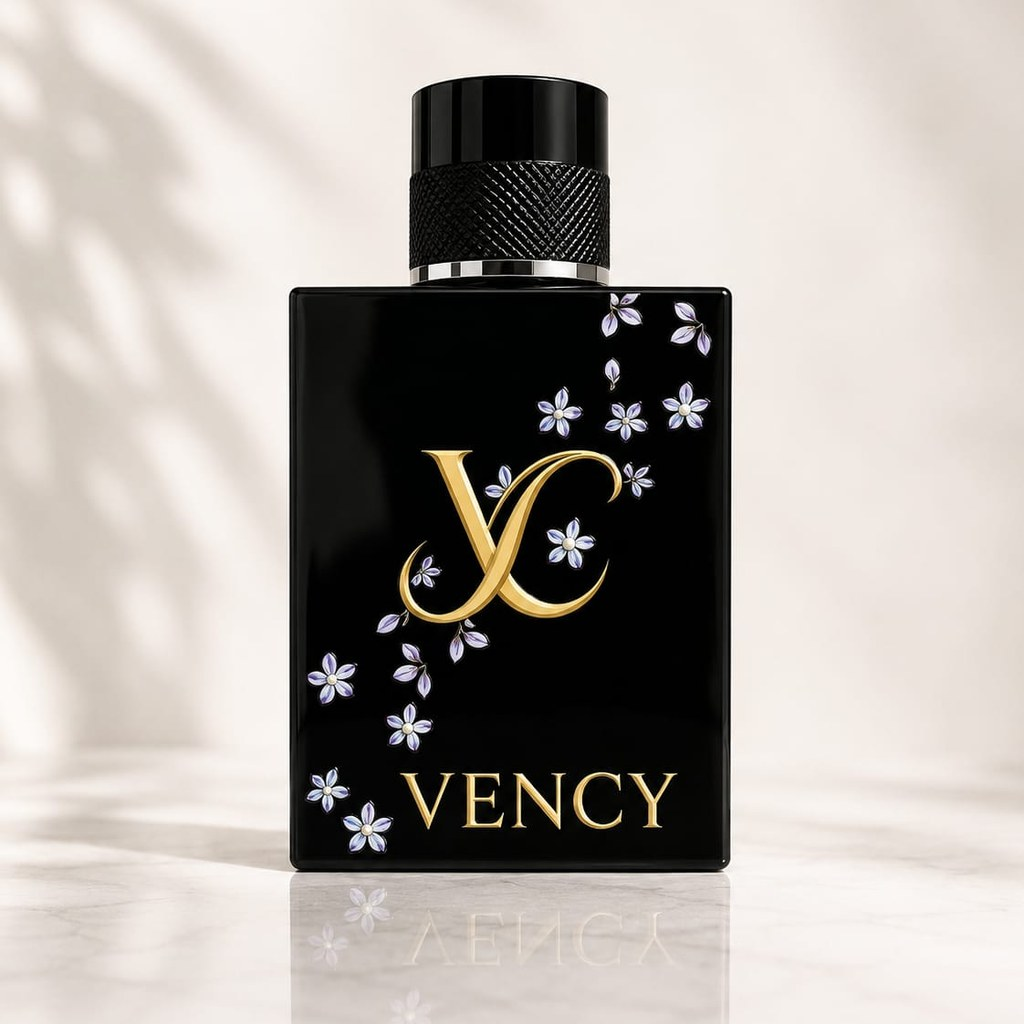
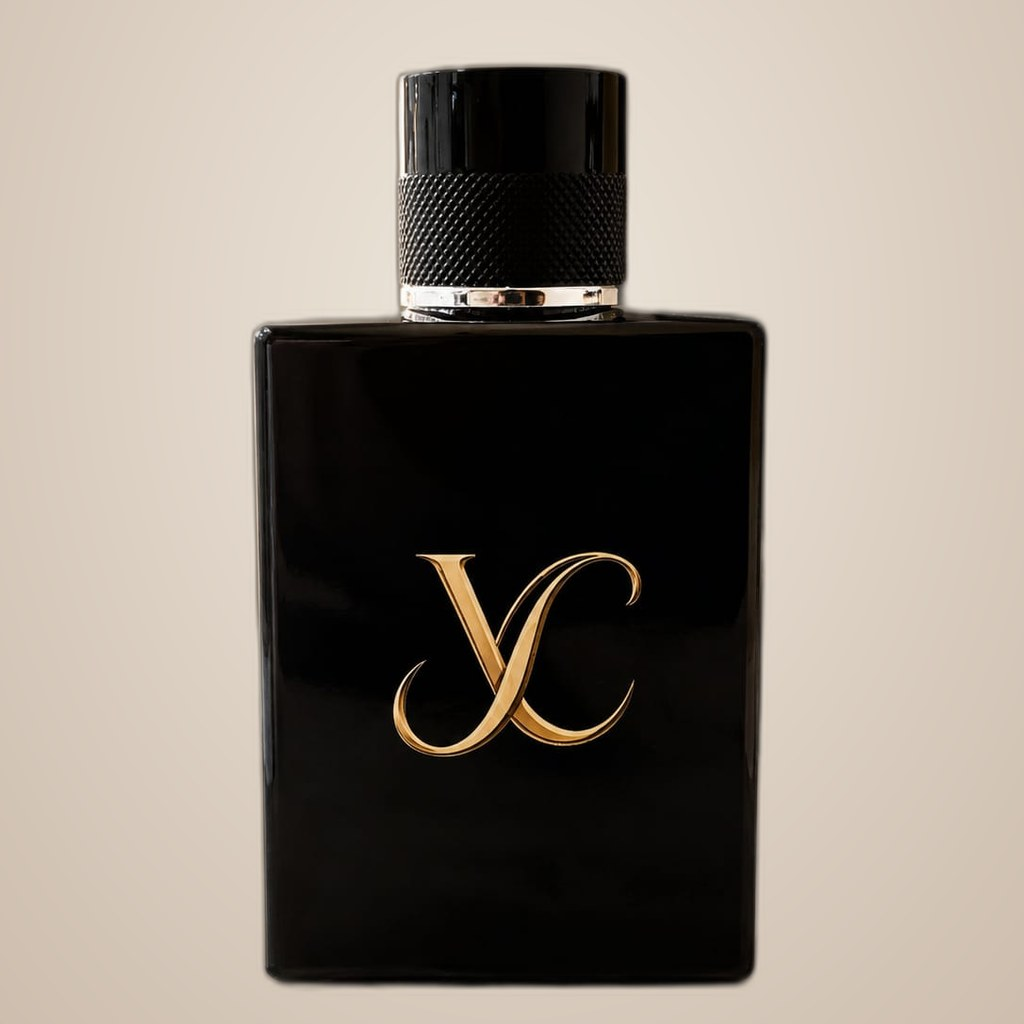
Replace disenador/hombre bottle photo background with clean studio backdrop
The logo-bottle photo (no floral decor, clean minimalist option) had a
moody lifestyle background — blurred vase, warm bokeh — that clashed
with every other bottle photo's plain studio backdrop. Used rembg to
cut the bottle out cleanly, composited it onto a warm parchment
gradient matching the site's existing bottle photography, and added a
soft grounding shadow. Cropped to match the other format images.

Bumped fragrance-data.js cache version again (image path gained a
cache-busting ?v=2 query since the file content changed under the same
name) and re-verified all 227 catalog items still resolve.

Claude-Session: https://claude.ai/code/session_01Gb7jNY6uT1dWXy1sbRGB6W

diff --git a/src/index.html b/src/index.html
@@ -236,7 +236,7 @@
   <link rel="prefetch" href="styles/format-rail.css?v=51">
   <link rel="prefetch" href="styles/decants.css?v=51">
   <link rel="prefetch" href="styles/coleccion.css?v=61">
-  <link rel="prefetch" href="scripts/fragrance-data.js?v=57">
+  <link rel="prefetch" href="scripts/fragrance-data.js?v=58">
   <link rel="prefetch" href="scripts/catalogo-data.js?v=53">
   <link rel="prefetch" href="scripts/catalogo.js?v=81">
 </head>
@@ -632,7 +632,7 @@
     </div>
   </div>
 
-  <script src="scripts/fragrance-data.js?v=57" defer></script>
+  <script src="scripts/fragrance-data.js?v=58" defer></script>
   <script src="scripts/search.js?v=53" defer></script>
   <script src="scripts/cart-drawer.js?v=12" defer></script>
   <script src="scripts/quiz.js?v=8" defer></script>

diff --git a/src/scripts/fragrance-data.js b/src/scripts/fragrance-data.js
@@ -647,7 +647,7 @@
     '100ml-nicho-hombre':  'assets/images/formats/frasco-100ml-nicho-hombre.webp',
     '100ml-nicho-unisex':  'assets/images/formats/frasco-100ml-nicho-unisex.webp',
     '100ml-disenador-mujer':  'assets/images/formats/frasco-100ml-disenador-mujer.webp',
-    '100ml-disenador-hombre': 'assets/images/formats/frasco-100ml-disenador-hombre.webp'
+    '100ml-disenador-hombre': 'assets/images/formats/frasco-100ml-disenador-hombre.webp?v=2'
   };
 
   root.VencyCart = {

diff --git a/src/carrito.html b/src/carrito.html
@@ -242,7 +242,7 @@
 
   <script src="scripts/search.js?v=53" defer></script>
   <script src="scripts/cart-drawer.js?v=12" defer></script>
-  <script src="scripts/fragrance-data.js?v=57" defer></script>
+  <script src="scripts/fragrance-data.js?v=58" defer></script>
   <script src="scripts/catalogo-data.js?v=53" defer></script>
   <script src="scripts/nav.js?v=57" defer></script>
   <script src="scripts/carrito.js?v=15" defer></script>

diff --git a/src/catalogo.html b/src/catalogo.html
@@ -367,7 +367,7 @@
     </svg>
   </button>
 
-  <script defer src="scripts/fragrance-data.js?v=57"></script>
+  <script defer src="scripts/fragrance-data.js?v=58"></script>
   <script defer src="scripts/nav.js?v=57"></script>
   <script defer src="scripts/scroll.js?v=51"></script>
   <script defer src="scripts/catalogo-data.js?v=53"></script>

diff --git a/src/catalogo-lab.html b/src/catalogo-lab.html
@@ -367,7 +367,7 @@
     </div>
   </div>
 
-  <script defer src="scripts/fragrance-data.js?v=57"></script>
+  <script defer src="scripts/fragrance-data.js?v=58"></script>
   <script defer src="scripts/nav.js?v=57"></script>
   <script defer src="scripts/scroll.js?v=51"></script>
   <script defer src="scripts/catalogo-data.js?v=53"></script>

diff --git a/src/faq.html b/src/faq.html
@@ -343,7 +343,7 @@
     </div>
   </div>
 
-  <script src="scripts/fragrance-data.js?v=57" defer></script>
+  <script src="scripts/fragrance-data.js?v=58" defer></script>
   <script src="scripts/search.js?v=53" defer></script>
   <script src="scripts/cart-drawer.js?v=12" defer></script>
   <script src="scripts/wa-float.js" defer></script>

diff --git a/src/guia.html b/src/guia.html
@@ -741,7 +741,7 @@
     </div>
   </div>
 
-  <script src="scripts/fragrance-data.js?v=57" defer></script>
+  <script src="scripts/fragrance-data.js?v=58" defer></script>
   <script src="scripts/search.js?v=53" defer></script>
   <script src="scripts/cart-drawer.js?v=12" defer></script>
   <script src="scripts/quiz.js?v=8" defer></script>

diff --git a/src/perfumista.html b/src/perfumista.html
@@ -575,7 +575,7 @@
     </div>
   </div>
 
-  <script src="scripts/fragrance-data.js?v=57" defer></script>
+  <script src="scripts/fragrance-data.js?v=58" defer></script>
   <script src="scripts/search.js?v=53" defer></script>
   <script src="scripts/cart-drawer.js?v=12" defer></script>
   <script src="scripts/wa-float.js" defer></script>

diff --git a/src/proceso.html b/src/proceso.html
@@ -414,7 +414,7 @@
     </div>
   </div>
 
-  <script src="scripts/fragrance-data.js?v=57" defer></script>
+  <script src="scripts/fragrance-data.js?v=58" defer></script>
   <script src="scripts/search.js?v=53" defer></script>
   <script src="scripts/cart-drawer.js?v=12" defer></script>
   <script src="scripts/wa-float.js" defer></script>

diff --git a/src/personalizacion.html b/src/personalizacion.html
@@ -1206,7 +1206,7 @@
     </div>
   </div>
 
-  <script src="scripts/fragrance-data.js?v=57" defer></script>
+  <script src="scripts/fragrance-data.js?v=58" defer></script>
   <script src="scripts/nav.js?v=57" defer></script>
   <script src="scripts/scroll.js?v=51" defer></script>
   <script src="scripts/search.js?v=53" defer></script>

diff --git a/src/admin.html b/src/admin.html
@@ -885,7 +885,7 @@
     </svg>
   </button>
 
-  <script src="scripts/fragrance-data.js?v=57"></script>
+  <script src="scripts/fragrance-data.js?v=58"></script>
   <script src="scripts/catalogo-data.js?v=53"></script>
   <script src="scripts/admin.js?v=29"></script>
   <!-- PWA install bottom sheet -->
